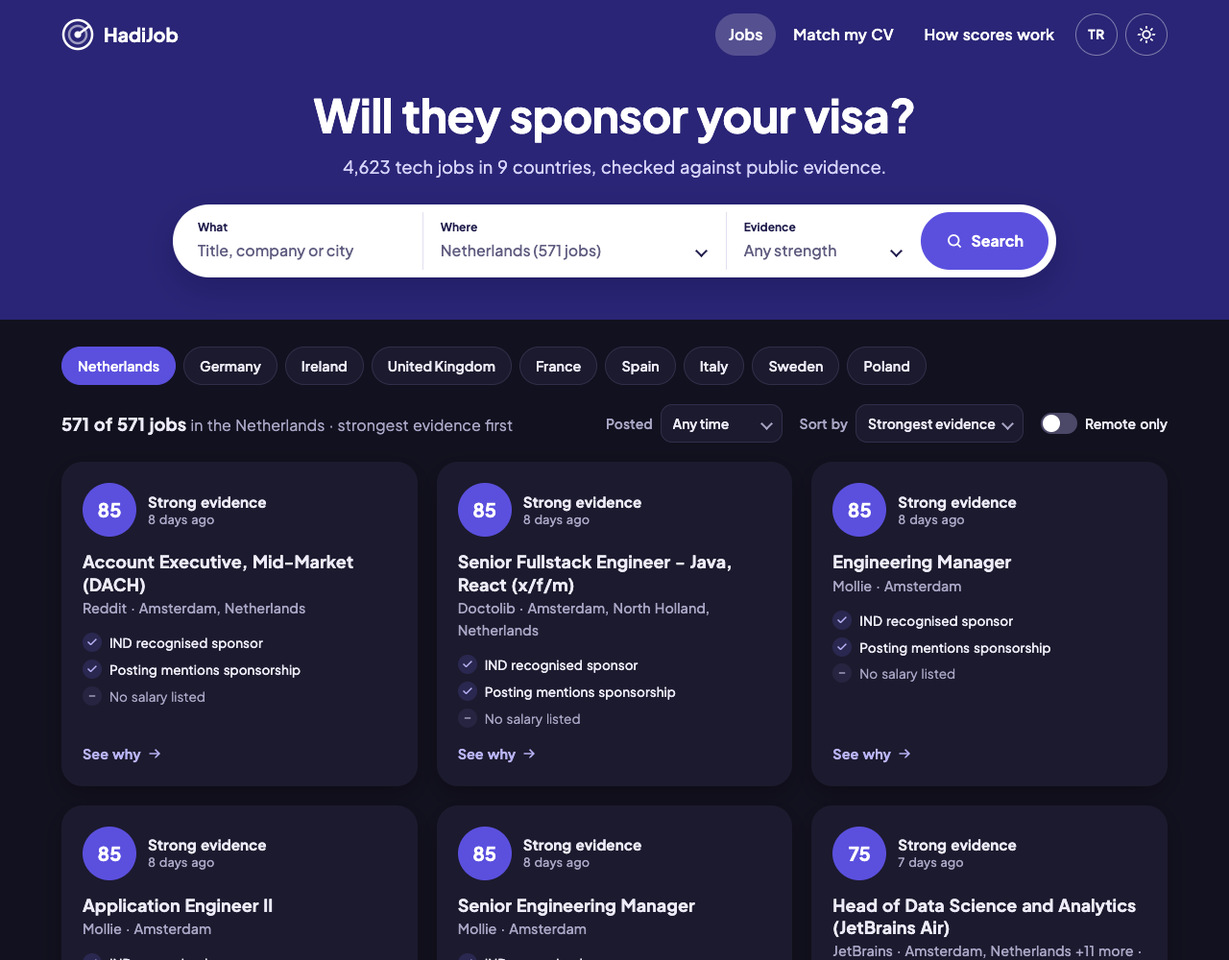
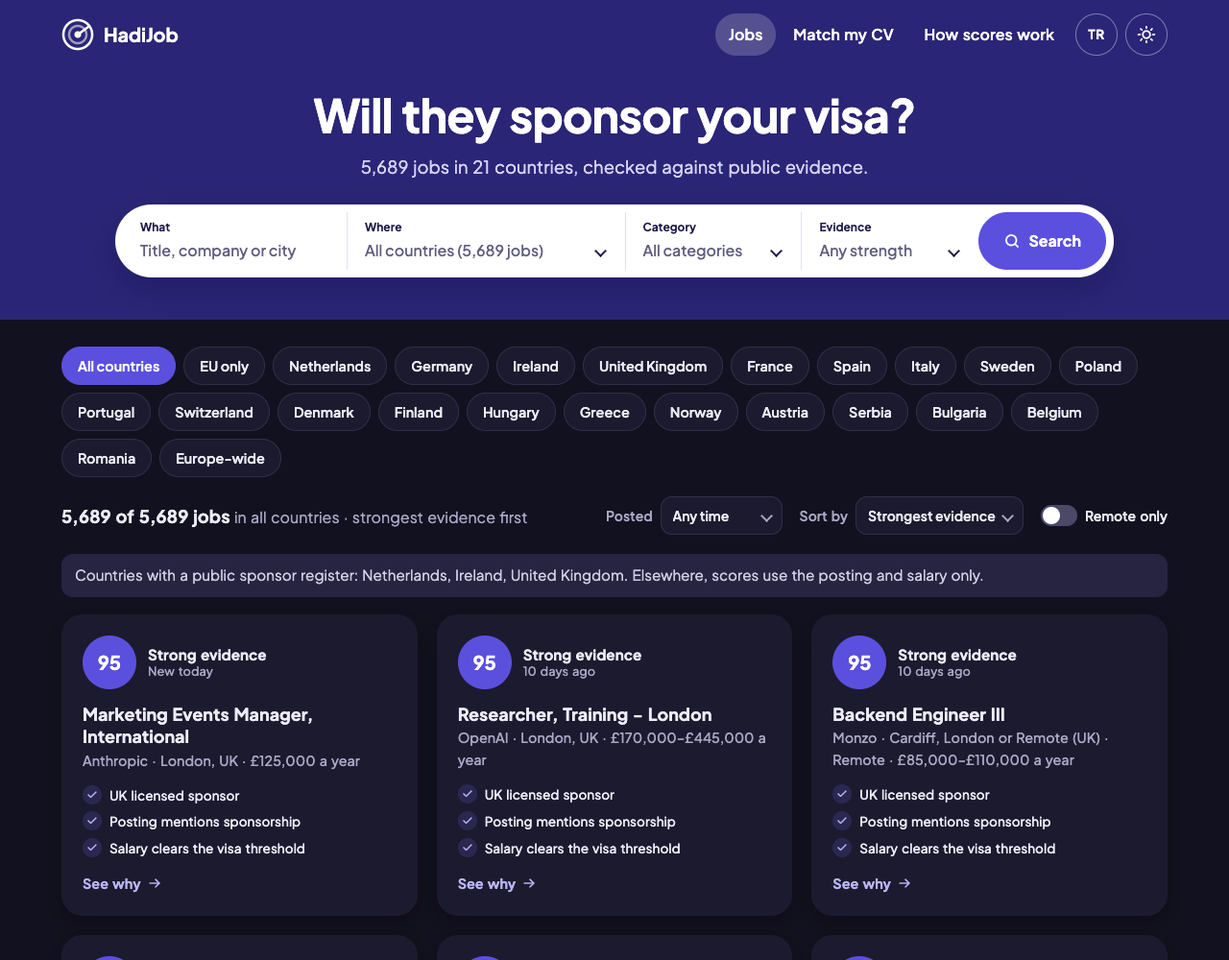
docs: lead with the user problem; 21 countries, categories, company pages, rules v5 and new screenshots

diff --git a/README.md b/README.md
@@ -4,182 +4,174 @@
 
 # HadiJob
 
-**How likely is this EU job to sponsor your visa?**
+### Stop applying to jobs that won't sponsor your visa.
 
-Open jobs at tech companies in 8 EU countries and the UK, scored 0–100 for visa sponsorship, with the public evidence behind each score. In English and Turkish.
+HadiJob scores **5,600+ open jobs across Europe** for how likely they are to come with visa sponsorship. It uses government sponsor registers and the posting itself, and shows you **the proof behind every point**.<br>
+Free, no sign-up, in English and Turkish.
 
-_"Hadi!" is Turkish for "come on, let's go"._
+**[Find sponsoring jobs at hadijob.com →](https://hadijob.com/)**
 
-![TypeScript](https://img.shields.io/badge/TypeScript-strict-3178c6?logo=typescript&logoColor=white)
-![Node](https://img.shields.io/badge/Node-24-5fa04e?logo=nodedotjs&logoColor=white)
-![React](https://img.shields.io/badge/React-19-61dafb?logo=react&logoColor=black)
-![SQLite](https://img.shields.io/badge/SQLite-node%3Asqlite-003b57?logo=sqlite&logoColor=white)
-![GitHub Actions](https://img.shields.io/badge/GitHub_Actions-pipeline_%26_CI-2088ff?logo=githubactions&logoColor=white)
-
-**[Try it at hadijob.com →](https://hadijob.com/)** (testing phase, feedback welcome)
+<sub>Testing phase: feedback is very welcome.</sub>
 
 <picture>
   <source media="(prefers-color-scheme: dark)" srcset=".github/assets/home-dark.png">
-  <img src=".github/assets/home.png" alt="Search page: jobs at EU tech companies with sponsorship scores" width="820">
+  <img src=".github/assets/home.png" alt="HadiJob search: 5,689 jobs in 21 countries, each with a sponsorship score and three plain-language reasons" width="820">
 </picture>
+
+**5,689 jobs** · **21 countries + Europe-wide remote** · **145 employers** · **3 government sponsor registers** · **updated twice a day**
 
 </div>
 
+> [!NOTE]
 > This repository is a showcase. The source code is private; I'm happy to walk through it in an interview or share it on request.
 
-## The problem
+## Why HadiJob
 
-People outside the EU lose weeks applying to roles that turn out not to sponsor visas. Job boards either ignore sponsorship or rely on what employers say about themselves.
+If you need a visa, most of your applications go to roles that were never going to sponsor you. Job boards don't say, and employers' own wording is vague.
 
-HadiJob checks **public evidence** instead: government sponsor registers, what the posting itself says, and whether the salary clears the work-permit threshold. It turns that into a score you can read in a second and verify in a click.
+HadiJob checks **public evidence** instead and turns it into a score you can read in a second and verify in a click:
 
-<img src=".github/assets/job.png" alt="Job page: score 85 with every piece of evidence and its weight" width="820">
+- 🏛 **Is the employer a licensed sponsor?** Checked against the Dutch IND register, Ireland's employment-permit statistics and the UK register of licensed sponsors.
+- 📝 **What does the posting say?** It picks up "visa sponsorship" and "relocation package", and also "you must already have the right to work".
+- 💶 **Does the salary clear the permit threshold?** Compared with 2026 work-permit minimums in each country's own currency.
 
-## Features
+<img src=".github/assets/job.png" alt="Job page: a score of 85 broken down into +40 IND sponsor, +30 mentions relocation support, +10 large employer, +5 English posting" width="820">
 
-- **Explainable scores.** Every point has a reason you can check: "IND recognised sponsor +40", "posting mentions a relocation package +30", "salary ≥ Blue Card threshold +15". No black box.
-- **Official sponsor evidence.** The Dutch IND public register of recognised sponsors (13,000+ organisations) and the Irish list of employment permits issued to companies (9,000+ employers in the last 12 months) and the UK register of licensed sponsors (121,000 Skilled Worker sponsors), matched to employers with 100% precision on a hand-labelled set.
-- **Reads the posting for you.** Sponsorship offers, relocation packages and "no sponsorship" rule-outs, with negation handled ("we do _not_ offer visa sponsorship").
-- **Salary against real thresholds.** 2026 work-permit minimums for each country in its own currency (euro, pound, krona, złoty), comparing base salary only (commission and deal sizes are ignored).
-- **Search first, in plain words.** One search bar (what, where, how strong the evidence) on a bold indigo band, with the first jobs right under it. Each job card gives its score and three plain-language reasons, and the job page shows a score ring with a bar of how the points add up.
-- **English and Turkish.** The language follows the visitor's region (Turkish in Turkey, English elsewhere) and can be switched in the header. Evidence lines are written from structured facts, so they read naturally in both languages.
-- **Match your CV, privately.** Drop in an English PDF CV: it is read in your browser, never uploaded, and the skills found are compared with each job. Results rank by fit, and every job page shows which of its skills you have.
-- **Search that stays shareable.** Filters and sorting live in the URL: country, keywords, minimum score, posting date, remote, and sort by strongest evidence, newest or highest salary.
-- **Fresh twice a day,** and redeployed within minutes of a merged change.
-- **Light and dark.** Follows your system setting, with a toggle that remembers your choice.
-- **Free, and no personal data.** No accounts, cookies or tracking. The only thing kept is your skills list, in your own browser.
+## What you can do
 
-<p align="center"><img src=".github/assets/mobile.png" alt="Search and job pages on a phone (390px)" width="560"></p>
+**Find**
+
+- **Search 21 countries at once,** the EU only, one country, or **Europe-wide** remote roles. Filter by **category** (Engineering, Data, Sales, Marketing and more), evidence strength, posting date and remote.
+- **See what's new since your last visit.** New jobs are marked, and one switch shows only those. The date stays in your browser.
+- **Share any search.** Every filter lives in the link.
+
+**Understand**
+
+- **Every point has a reason.** "IND recognised sponsor +40", "posting mentions a relocation package +30", "salary ≥ Blue Card threshold +15". No black box.
+- **"Does this company sponsor visas?"** Each employer has its own page with the registers that list it and its open jobs per country.
+
+<img src=".github/assets/company.png" alt="Company page: Does Mollie sponsor visas? It lists the IND and UK registers and the open jobs per country with their strongest evidence" width="820">
+
+**Personalise**
+
+- **Match your CV, privately.** Drop in a PDF CV: it's read in your browser and never uploaded. Jobs are then ranked by how many of your skills they ask for.
+- **English or Turkish,** light or dark. Both follow your device, and you can switch either in the header.
+
+<p align="center"><img src=".github/assets/mobile.png" alt="Search and job pages on a phone" width="560"></p>
+
+## 🇹🇷 Türkçe
+
+HadiJob, Avrupa'daki 5.600'den fazla açık ilanı vize sponsorluğu olasılığına göre puanlar. Hollanda, İrlanda ve Birleşik Krallık'ın resmî sponsor kayıtlarına ve ilanın kendisine bakar, her puanın kanıtını da gösterir. Ücretsiz, üyelik yok, tamamen Türkçe: **[hadijob.com](https://hadijob.com/)**
 
 ## How it works
 
 ```mermaid
 flowchart LR
   subgraph Sources["Public sources"]
-    GH[Greenhouse API]
-    LV[Lever API]
-    AB[Ashby API]
-    IND[IND sponsor register]
-    DETE[Irish permits list]
-    UK[UK sponsor register]
+    ATS[Greenhouse · Lever · Ashby<br/>job board APIs]
+    REG[IND · DETE · UK<br/>sponsor registers]
   end
   subgraph Pipeline["Pipeline · GitHub Actions, twice a day"]
-    I[Ingest<br/>facts: country · salary · phrases]
-    R[Resolve<br/>company ↔ register]
-    S[Score<br/>rules v3 + evidence]
-    D[Dedup<br/>one job per country]
-    E[Export<br/>JSON · metrics]
+    I[Ingest<br/>country · salary · phrases]
+    R[Resolve<br/>employer ↔ register]
+    S[Score<br/>rules v5 + evidence]
+    E[Export<br/>JSON · pages · sitemap]
   end
   DB[(SQLite)]
   Web[Static site<br/>GitHub Pages]
-  GH & LV & AB --> I
-  IND & DETE & UK --> R
-  I --> DB --> R --> S --> D --> E --> Web
+  ATS --> I --> DB --> R --> S --> E --> Web
+  REG --> R
 ```
 
-1. **Ingest:** about 135 company job boards are fetched politely. Each job gets its _facts_ at ingest time: country, remote, yearly salary, posting language and sponsorship phrases. Descriptions are never stored; anything derived from the text happens while it is in memory.
-2. **Resolve:** each employer is matched to the IND register, the Irish permits list and the UK register. Exact names link automatically, near-matches go to a review list, and human decisions are recorded in version control.
+1. **Ingest:** 145 company job boards are fetched politely. Each job's facts (country, remote, salary, language, sponsorship phrases) are extracted while the text is in memory. Descriptions are never stored.
+2. **Resolve:** each employer is matched to the three registers. Exact names link automatically, near-matches go to human review, and every decision is kept in version control.
 3. **Score:** versioned, explainable rules. A score starts at 0, adds each signal's weight and is clamped to 0–100.
-4. **Dedup:** the same role posted in several cities of one country is shown once.
-5. **Export:** JSON per country for the static site and a metrics file. The site is built and deployed to GitHub Pages after every run.
+4. **Export:** one JSON file per country for the site, plus about 320 pre-built company and country pages in both languages.
 
-Between runs, the SQLite database is kept as a release asset, so first/last-seen dates, ETags and closed jobs carry over. No server and no database server: it runs for €0.
+The whole thing runs for **€0**: no servers and no database server, with the SQLite file kept between runs as a release asset.
 
-### Scoring rules (v3)
+### Scoring rules (v5)
 
-| Signal                                                                                     | Weight  |
-| ------------------------------------------------------------------------------------------ | ------- |
-| Company is an IND recognised sponsor (NL jobs)                                             | **+40** |
-| Company was issued Irish employment permits in the last 12 months (IE jobs)                | **+40** |
-| Company is an A-rated Skilled Worker sponsor on the UK register (UK jobs)                  | **+40** |
-| Posting mentions visa sponsorship, relocation or the EU Blue Card                          | **+30** |
-| Posting rules out sponsorship / requires an existing right to work                         | **−60** |
-| Salary ≥ country threshold (e.g. DE €45,934 · NL €52,284 · UK £41,700; none for Italy yet) | **+15** |
-| Large company (≥ 50 open jobs in ≥ 2 countries)                                            | **+10** |
-| English posting in a non-English country (DE, NL, FR, ES, IT, SE, PL)                      | **+5**  |
+| Signal                                                                           | Weight  |
+| -------------------------------------------------------------------------------- | ------- |
+| Employer is on the country's sponsor register (IND for NL · DETE for IE · UK)    | **+40** |
+| Posting mentions visa sponsorship, relocation or the EU Blue Card                | **+30** |
+| Employer is a registered sponsor in another country (countries with no register) | **+20** |
+| Salary ≥ the country's work-permit threshold (e.g. DE €45,934 · UK £41,700)      | **+15** |
+| Large employer (≥ 50 open jobs in ≥ 2 countries)                                 | **+10** |
+| English posting in a country where English isn't the main language               | **+5**  |
+| Posting rules out sponsorship, or requires an existing right to work             | **−60** |
 
-Scores are **likelihoods, not guarantees and not legal advice**.
+Scores are **likelihoods, not guarantees and not legal advice**. Always confirm with the employer.
 
 ## By the numbers
 
-From a full pipeline run on 2026-11-04:
+From the live data on 2026-11-11:
 
-|                                               |                                                                                                |
-| --------------------------------------------- | ---------------------------------------------------------------------------------------------- |
-| Job boards                                    | **135** (Greenhouse 72 · Ashby 54 · Lever 9)                                                   |
-| Open jobs processed                           | **16,005**                                                                                     |
-| Published, 9 countries                        | **4,708** (DE 1,511 · GB 1,195 · NL 572 · IE 415 · FR 397 · ES 252 · SE 131 · PL 127 · IT 108) |
-| IND register entries                          | **13,022**                                                                                     |
-| UK register (A-rated Skilled Worker sponsors) | **121,488** (updated 2026-11-04)                                                               |
-| Irish permits list                            | **9,345** employers (12 months to September 2026)                                              |
-| Jobs with register evidence                   | **UK 1,016 of 1,195 · NL 525 of 572 · IE 313 of 415**                                          |
-| Employers with sponsor evidence               | **78** of 135                                                                                  |
-| Company matching (automatic rules)            | **100% precision · 81.8% recall** on 100 hand-labelled pairs                                   |
-| UK matching (name + town rule)                | **100% precision · 75% recall** on 37 hand-labelled pairs                                      |
-| Duplicate postings folded                     | **1,206** into 658 roles                                                                       |
-| Full refresh of all boards                    | **75 s** (down from 37 min)                                                                    |
-| Tests                                         | **449**, plus an end-to-end smoke test                                                         |
+|                                    |                                                                                       |
+| ---------------------------------- | ------------------------------------------------------------------------------------- |
+| Published jobs                     | **5,689** in 21 countries + 181 Europe-wide (DE 1,536 · GB 1,254 · NL 624 · IE 445 …) |
+| Open jobs processed                | **16,343** from **145** job boards (Greenhouse 77 · Ashby 56 · Lever 12)              |
+| Jobs with register evidence        | **NL 581 of 624 · GB 1,083 of 1,254 · IE 320 of 445**                                 |
+| Sponsor registers                  | **13,087** IND sponsors · **121,488** UK sponsors · **9,430** Irish permit holders    |
+| Employers with sponsor evidence    | **87** of 145                                                                         |
+| Company matching (automatic rules) | **100% precision · 81.8% recall** on 100 hand-labelled pairs                          |
+| Duplicate postings folded          | **1,266** into 705 roles                                                              |
+| Full refresh of all boards         | **75 s** (down from 37 min)                                                           |
+| Tests                              | **510**, plus an offline end-to-end smoke test of the whole pipeline                  |
 
 ## Engineering highlights
 
-- **37 minutes to 75 seconds.** Per-board timing showed the time wasn't spent downloading: a few connections stalled for about 15 minutes each (3 attempts × the HTTP client's 300 s default timeout). A 30 s per-attempt timeout fixed the cause, and polling the three API hosts in parallel (still one request per second per host) removed the rest. The floor is now the rate limit itself.
-- **Runtime-agnostic core.** The core package uses only web-platform APIs, so the same logic can move into a future API unchanged. Storage sits behind interfaces with shared contract tests for the in-memory and SQLite implementations.
-- **Validated boundaries.** Every external response is parsed with Zod. A changed API shape fails loudly for that board instead of writing bad rows, and one bad link drops that job, not the whole board.
-- **A polite, resilient HTTP client.** Identifying User-Agent, at most one request per second per host, ETag revalidation, and exponential backoff that honours `Retry-After`.
-- **Precision first.** Company matching only auto-links exact names; everything else needs a recorded human decision. On 100 hand-labelled pairs, including 45 deliberate look-alikes (Toast vs. "Yoast B.V."), the automatic rules scored 100% precision and 81.8% recall; the 10 misses were confirmed by human review, and the review list was widened so similar cases now surface for review.
-- **Checked against reality.** Running each extractor on live postings caught false positives the unit tests didn't, for example "deals of £100k+ ACV" read as a salary, or "Visa sponsorship is not offered" counted as a mention. Every one became a regression test.
-- **End-to-end smoke test in CI.** Every pull request runs the real pipeline twice on fixtures, fully offline: a test-only `fetch` stub answers the API calls and fails any other request. About 3 seconds.
-- **Safe output.** All job-board text is treated as untrusted: React escapes it, and only http(s) links are kept.
-- **Hardened by default.** A Content-Security-Policy with no inline or eval scripts (added at build time, inline scripts allowed only by hash), GitHub Actions pinned to commit SHAs, weekly Dependabot updates, dependency review and CodeQL on every pull request.
-- **Accessible and private by design.** Real buttons and labelled inputs, 44px touch targets, visible focus, reduced-motion support, and self-hosted fonts, so a visit makes no third-party requests.
-- **Two pieces of evidence for the UK.** Exact-name matching produced 2 false links out of 17 on the UK register's 121,000 names ("Cursor Ltd" in Lincoln is not Cursor). A UK entry now links only when its name is the brand plus legal or region words _and_ one of its register towns is a city where the company hires: 100% precision on 37 hand-labelled pairs, which run as a test in CI.
-- **A government spreadsheet without a dependency.** The Irish permits list is an XLSX file whose layout and file name change every year. A ~100-line reader unzips it with the web-standard `DecompressionStream`, finds columns by month name, and fails loudly on a changed layout instead of silently dropping employers.
-- **Privacy by architecture.** CV matching runs entirely in the browser: pdf.js reads the PDF, a skill taxonomy extracts the skills, and only that list is kept, in the visitor's own storage. No CV ever reaches a server.
-- **Decisions on record.** Every architectural choice is written down as a decision record, and work goes through small, CI-gated pull requests.
+- **37 minutes to 75 seconds.** Timing each board showed the time wasn't spent downloading: a few connections stalled for about 15 minutes each (3 attempts × a 300 s default timeout). A 30 s per-attempt timeout fixed the cause, and polling the three API hosts in parallel (still one request per second per host) removed the rest.
+- **Precision first.** Company matching only auto-links exact names; everything else needs a recorded human decision. On 100 hand-labelled pairs, including 45 deliberate look-alikes (Toast vs. "Yoast B.V."), the rules scored 100% precision.
+- **Two pieces of evidence for the UK.** On the UK register's 121,000 names, exact-name matching produced 2 false links out of 17 ("Cursor Ltd" in Lincoln is not Cursor). A UK entry now links only when the name matches _and_ a register town is a city where the company hires: 100% precision on 37 labelled pairs, tested in CI.
+- **Growing the employer list from the registers.** The registers double as a list of companies known to sponsor. A pilot probed 2,417 register names against three job-board APIs, measured the hit rate per register (0.9% for Dutch sponsors, against 0.3% for Irish permit holders), and kept only boards verified by hand.
+- **Checked against reality.** Running each extractor on live postings caught false positives the unit tests didn't, such as "deals of £100k+ ACV" read as a salary, or "Visa sponsorship is not offered" counted as a mention. Every one became a regression test.
+- **Search engines without a server.** The app uses hash routes, which search engines can't index, so the build pre-renders about 320 company and country pages with `react-dom/server`, in English and Turkish with `hreflang`, plus a sitemap.
+- **Privacy by architecture.** CV matching runs entirely in the browser with pdf.js and a skill taxonomy. "New since your last visit" stores just a date in the browser. There are no accounts, cookies or trackers.
+- **Hardened by default.** A strict Content-Security-Policy, where the only inline script is allowed by its SHA-256 hash. GitHub Actions are pinned to commit SHAs, with weekly Dependabot updates, dependency review and CodeQL on every pull request.
+- **Runtime-agnostic core and validated boundaries.** The core uses only web-platform APIs and is shared with a Fastify API, and every external response is parsed with Zod. A changed API shape fails loudly for that board, and one bad link drops that job, not the whole board.
+- **A government spreadsheet without a dependency.** The Irish permits list is an XLSX file whose layout changes every year. A ~100-line reader unzips it with the web-standard `DecompressionStream` and fails loudly on a changed layout instead of silently dropping employers.
+- **Decisions on record.** Every architectural choice is written down as a decision record (32 so far), and all work goes through small, CI-gated pull requests.
 
 ## Tech stack
 
-| Area       | Choice                                                                                    |
-| ---------- | ----------------------------------------------------------------------------------------- |
-| Language   | TypeScript (strict) on Node 24, run directly without a build step                         |
-| Monorepo   | pnpm workspaces: core logic, pipeline, web, API                                           |
-| Validation | Zod                                                                                       |
-| Storage    | SQLite via `node:sqlite`                                                                  |
-| Web        | React 19 + Vite, plain CSS with design tokens, light and dark themes, English and Turkish |
-| API (v1)   | Fastify, Kysely + Postgres, Testcontainers. Built and tested, not deployed yet            |
-| Testing    | Vitest, Testing Library, jsdom: 449 tests, plus an offline end-to-end smoke test          |
-| Quality    | ESLint, Prettier, CodeQL, dependency review                                               |
-| Automation | GitHub Actions: CI on every PR, pipeline twice a day and on merge, deploy to GitHub Pages |
+| Area       | Choice                                                                                     |
+| ---------- | ------------------------------------------------------------------------------------------ |
+| Language   | TypeScript (strict) on Node 24, run directly without a build step                          |
+| Monorepo   | pnpm workspaces: core logic, pipeline, web, API                                            |
+| Data       | SQLite via `node:sqlite`, Zod at every boundary                                            |
+| Web        | React 19 + Vite, plain CSS with design tokens, pre-rendered SEO pages, English and Turkish |
+| API (v1)   | Fastify, Kysely + Postgres, Testcontainers. Built and tested, not deployed yet             |
+| Testing    | Vitest, Testing Library, jsdom: 510 tests, plus an offline end-to-end smoke test           |
+| Automation | GitHub Actions: CI on every PR, pipeline twice a day and on merge, deploy to GitHub Pages  |
 
 ## Data sources and ethics
 
-- **Public, keyless endpoints only:** the Greenhouse, Lever and Ashby job board APIs, the IND public register and the Irish DETE permit statistics. No LinkedIn or Indeed, no scraping behind logins.
+- **Public, keyless sources only:** the Greenhouse, Lever and Ashby job board APIs, the IND public register, the Irish DETE permit statistics and the UK register of licensed sponsors. No LinkedIn or Indeed, and no scraping behind logins.
 - **Metadata plus a link out.** Full job descriptions are never stored or republished.
-- **Attribution** on every piece of evidence, as the IND's reuse terms and the Irish PSI licence require.
+- **Attribution** on every piece of evidence, as the registers' reuse terms require.
 - **Corrections and removal on request,** through the [correction form](https://github.com/ilker-ekin/hadijob/issues/new/choose).
 
 ## Roadmap
 
-- [x] Ingestion, IND register and company matching
-- [x] Irish employment permits as sponsor evidence (rules v2)
-- [x] Six more countries (UK, France, Spain, Italy, Sweden, Poland) and the UK sponsor register (rules v3)
-- [x] Explainable scoring, dedup and the static site
-- [x] Automated pipeline and deploys, end-to-end smoke test
-- [x] HadiJob redesign with light and dark themes, then a calmer visual style
-- [x] Colourful, search-first redesign: one search bar and plain-language job cards
-- [x] English and Turkish, with evidence written in the visitor's language
-- [x] CV matching in the browser: skills from your CV, jobs ranked by fit
-- [x] v1 API: server-side job search, with the site falling back to static files
-- [x] Live on its own domain: hadijob.com
-- [ ] Search across all countries at once, or the EU only
-- [ ] More employers, found through the sponsor registers
-- [ ] Every role, not only tech: job categories from the title, with a category filter
-- [ ] The rest of Europe (Switzerland, Portugal, Denmark, Austria and more), after better location parsing
-- [ ] Evidence across borders: a registered sponsor in one country counts, at half weight, where there is no register
-- [ ] Company and country pages that search engines can index
-- [ ] "New since your last visit", kept only in your browser
-- [ ] Deploy the search API on AWS Lambda + Neon (€0, no accounts)
-- [ ] A public stats page with privacy-first visitor counts: no cookies, no tracking, bots filtered
+**Done**
+
+- [x] Explainable scores from three government sponsor registers, the posting and the salary
+- [x] 21 countries plus Europe-wide remote roles, searchable together, by country or EU only
+- [x] Every kind of role, not only tech, with a category filter
+- [x] Evidence across borders: a sponsor in one country counts, at half weight, where there's no register
+- [x] Company and country pages that search engines can index, in English and Turkish
+- [x] "New since your last visit", kept only in your browser
+- [x] CV matching in the browser
+- [x] English and Turkish, light and dark, on its own domain
+
+**Next**
+
+- [ ] More employers: probing the rest of the Dutch sponsor register (about 12,000 names; running now)
+- [ ] Public launch: a security review, then opening the site to search engines
+- [ ] Deploy the search API on AWS Lambda + Neon (still €0, still no accounts)
+- [ ] A public stats page with privacy-first visitor counts: no cookies, bots filtered
 
 ## License
 
